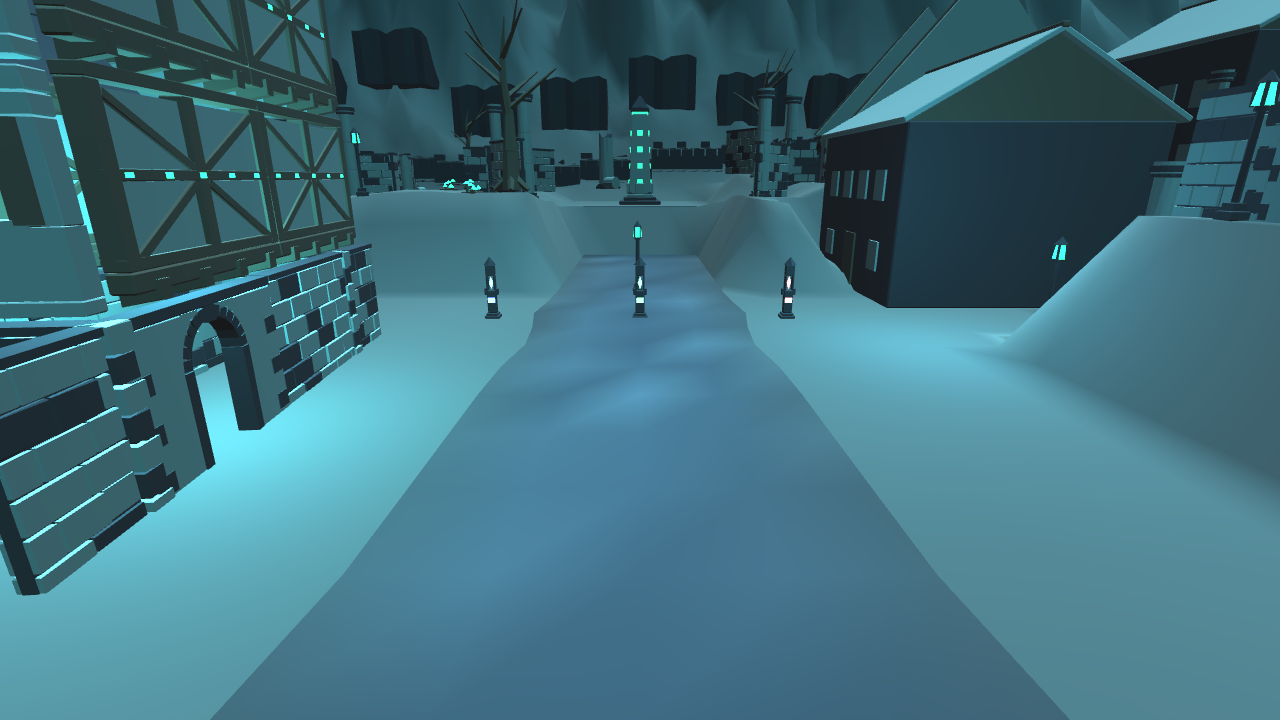
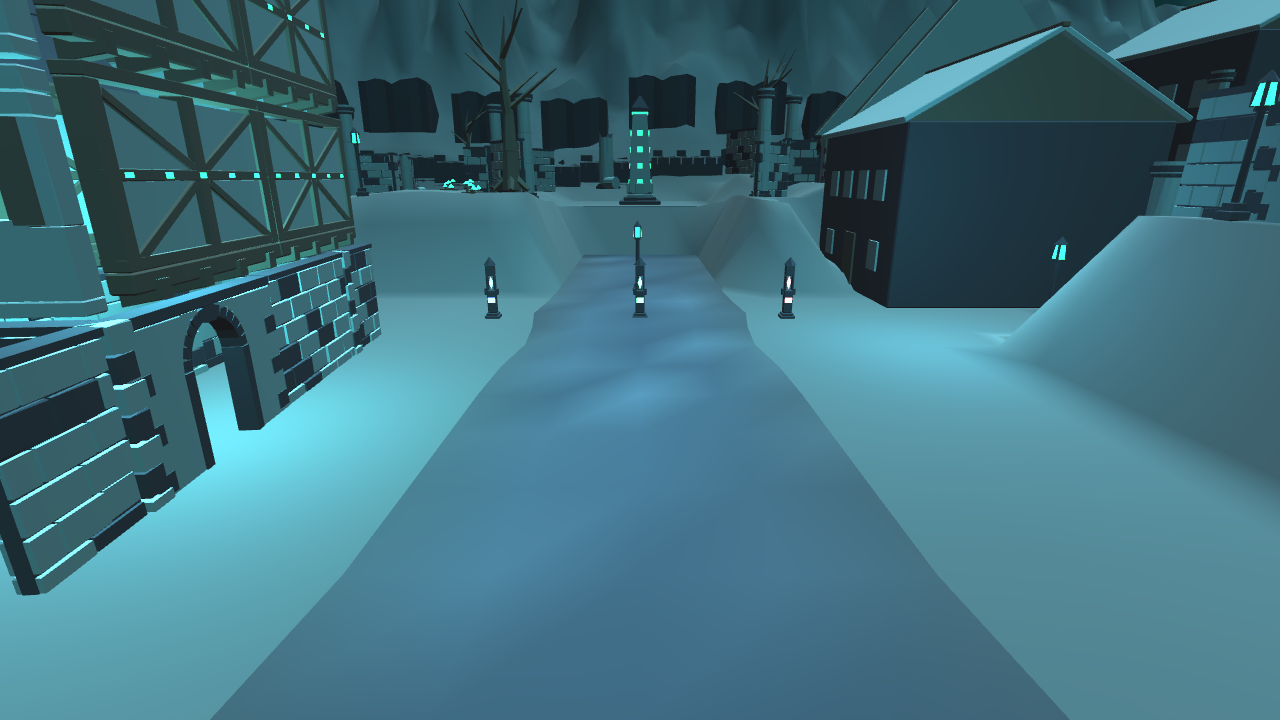
preview: 🌙 텍스처 베이크 발주(R25: 팔레트 4 타일+지면 디테일) + 루프 #8~#9 이어감. 앰비언트 레버=미미(지면이 직접광 지배, 되돌림), 지형 apron으로 도심→산 전이를 산기슭 스커트로(지질 개선). 루프 수렴: 접지·물신뢰성·기능구역 MET / 지질·재질·아티팩트 PARTIAL — 재질계열은 R25 텍스처 도착 후 재개(정점색은 조명 천장). plan.html 루프 로그 #1~#9

diff --git a/plan.html b/plan.html
@@ -90,7 +90,7 @@
 
 <script>
 // ── plan data (edited each wave; status: done | run | wait) ─────────────────────────────
-const UPDATED = "2026-08-16 03:50 · 야근 웨이브 6 (§4W.1 루프 #4~#7: 물·기능 MET, 재질/아티팩트 정점색 천장까지)";
+const UPDATED = "2026-08-16 04:20 · 야근 웨이브 7 (§4W.1 루프 #8~#9 + 텍스처 베이크 발주 R25)";
 // §4W.1 refinement loop — a running verification HOOK (codex scores the 6 criteria each wave).
 // This is the "loop" of the paper's Stage 2.3; it does not stall — each iteration logs verdicts,
 // the lowest criterion becomes the next action, and the fix is verified in the next iteration.
@@ -109,7 +109,11 @@ const LOOPLOG = [
   { iter:6, ts:"2026-08-16 03:40", scores:["PARTIAL","PARTIAL","MET","MET","PARTIAL","MET"],
     priority:"무아티팩트", action:"도로 자갈 그리드로 부감 도로/지면 분리됨. 도로가 아직 깔끔한 직사각형 → 폭 불규칙화+대비 강화" },
   { iter:7, ts:"2026-08-16 03:50", scores:["PARTIAL","PARTIAL","MET","MET","PARTIAL","MET"],
-    priority:"조명/텍스처 레버", action:"도로 불규칙화. codex 판정: 정점색 조명 천장 도달(추가 정점 튜닝은 diminishing). 남은 재질/아티팩트는 텍스처 베이크 or 앰비언트 리밸런스, 지질(절벽-도심 급단)은 지형 apron 필요 — 다음 웨이브 레버" },
+    priority:"조명/텍스처 레버", action:"도로 불규칙화. codex 판정: 정점색 조명 천장 도달(추가 정점 튜닝은 diminishing). 남은 레버: 텍스처 베이크·앰비언트·지형 apron" },
+  { iter:8, ts:"2026-08-16 04:10", scores:["PARTIAL→개선","PARTIAL","MET","MET","PARTIAL","MET"],
+    priority:"지질정합성", action:"앰비언트 레버 테스트→지면이 직접광 지배라 미미, 되돌림(크러시 방지). 지형 apron: 도심→산 전이를 24m 산기슭 스커트로 넓힘. 재질/아티팩트는 텍스처 발주(R25)에 의존" },
+  { iter:9, ts:"2026-08-16 04:20", scores:["PARTIAL","PARTIAL","MET","MET","PARTIAL","MET"],
+    priority:"(텍스처 대기)", action:"지질: 스커트로 좌/전면 완만해짐. 우/후면 고지는 본질적으로 가파른 산이라 잔존 PARTIAL. 재질·무아티팩트는 R25 텍스처 베이크 도착 후 재개(정점색으론 천장). 루프 수렴: 3 MET, 3 PARTIAL(텍스처/지형 본질 의존)" },
 ];
 const GOAL = "<b>이번 야근 목표:</b> Figure 1의 <b>Stage 1(Intent Analysis &amp; Planning)</b>을 thorough 하게 다시 세우고, <b>Stage 2 하위 3단계(Scene Terrain Generation &amp; Refinement)</b>까지 진행한다. 계기: 침식 버전이 여태 최선이나 ①좁은 타일에 과도한 고지대 ②맵에 물이 전혀 없음 — 되짚어 보니 <b>Stage 1을 건너뛰어</b> 지형 범주(특히 물)를 의도에서 유도하지 않고 건물 중심 분할로 직행한 게 근본 원인.";
 const FOOT = "핵심 인사이트: <i>coarse-to-fine agentic framework for building explicit, explorable, and editable 3D worlds from open-ended text.</i> — 우리도 거친 지형 골조(Stage 2)부터 세우고 점진적으로 조밀화(Stage 3)하되, 그 출발점인 의도 명세(Stage 1)를 먼저 제대로 닫는다.";
